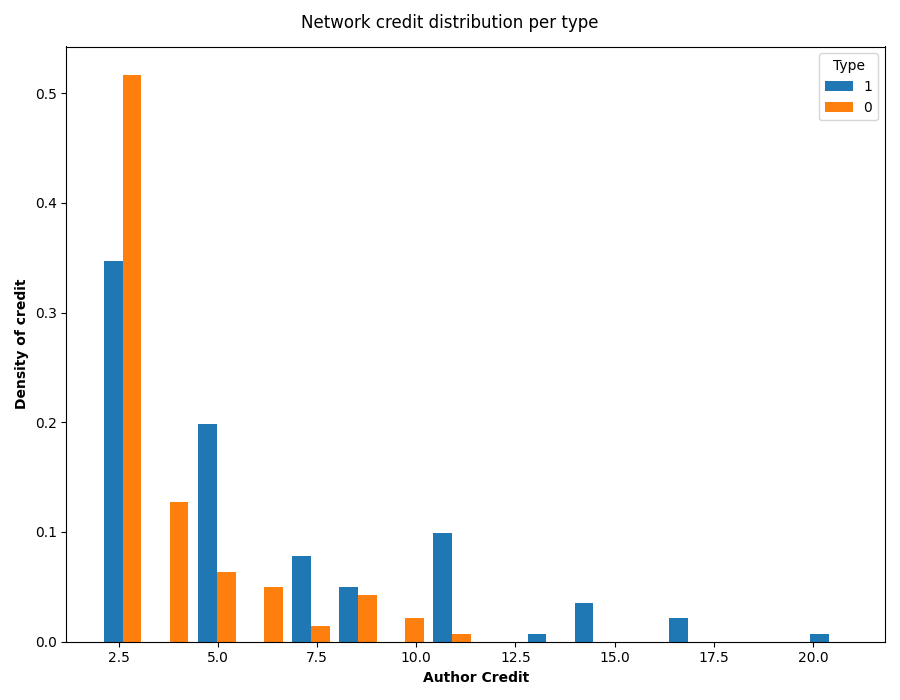
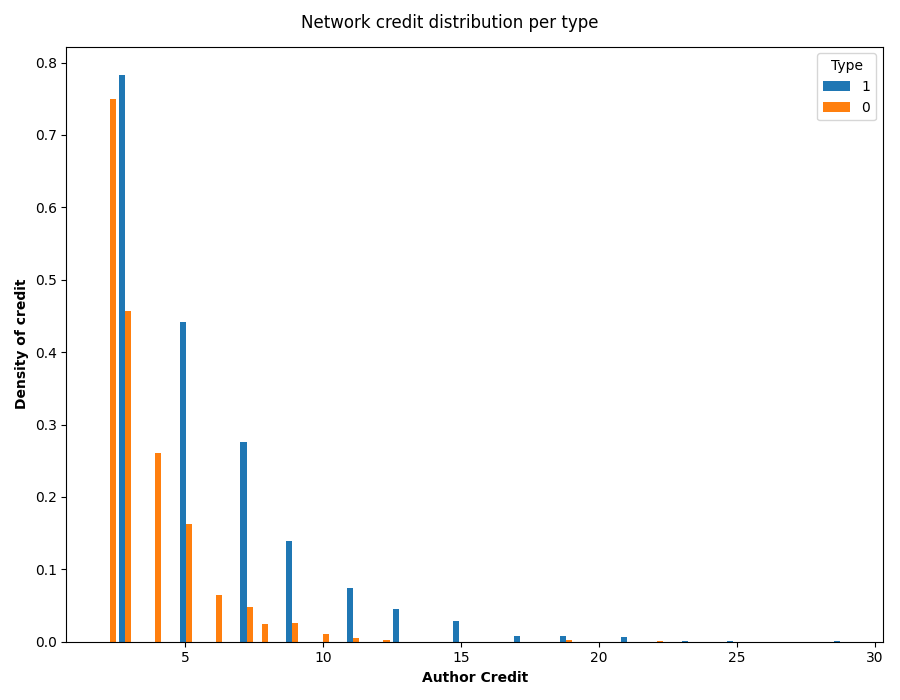
Changed the updating new communities function, still minor issue with Pd

diff --git a/docs/outputs/bibsonomyPage.html b/docs/outputs/bibsonomyPage.html
@@ -85,19 +85,19 @@
                         </tr>
                         <tr>
                             <td>Number of Papers</td>
-                            <td>100</td>
+                            <td>1000</td>
                         </tr>
                         <tr>
                             <td>Number of Authors</td>
-                            <td>79</td>
+                            <td>793</td>
                         </tr>
                         <tr>
                             <td>Number of Topics</td>
-                            <td>15</td>
+                            <td>104</td>
                         </tr>
                         <tr>
                             <td>Number of Types</td>
-                            <td>N/A</td>
+                            <td>2</td>
                         </tr>
                     </table>
                     <img src=bibsonomyDeg.png style="width:100%">

diff --git a/docs/outputs/scholarometerPage.html b/docs/outputs/scholarometerPage.html
@@ -85,7 +85,7 @@
                         </tr>
                         <tr>
                             <td>Number of Papers</td>
-                            <td>1039</td>
+                            <td>1275</td>
                         </tr>
                         <tr>
                             <td>Number of Authors</td>
@@ -93,11 +93,11 @@
                         </tr>
                         <tr>
                             <td>Number of Topics</td>
-                            <td>4</td>
+                            <td>6</td>
                         </tr>
                         <tr>
                             <td>Number of Types</td>
-                            <td>N/A</td>
+                            <td>2</td>
                         </tr>
                     </table>
                     <img src=scholarometerDeg.png style="width:100%">

diff --git a/docs/outputs/nanobankPage.html b/docs/outputs/nanobankPage.html
@@ -97,7 +97,7 @@
                         </tr>
                         <tr>
                             <td>Number of Types</td>
-                            <td>N/A</td>
+                            <td>2</td>
                         </tr>
                     </table>
                     <img src=nanobankDeg.png style="width:100%">

diff --git a/modules/Evolution.py b/modules/Evolution.py
@@ -197,15 +197,17 @@ class Evolution:
                 if newTopic not in self.topics:
                     self.topics[newTopic] = Topic(newTopic)
                 self.topics[newTopic].addPaper(paperID)
-            
+
                 # remove paper from old topics if strictly in new topic
                 if numIntersectAuths > numHalfAuths:
-                    # update papers data structure
-                    paperClass.clearTopics()
-                    paperClass.addTopic(newTopic)
                     # update topics data structure
                     for oldTopic in paperClass.getTopics():
                         self.topics[oldTopic].removePaper(paperID)
+                    # update papers data structure
+                    paperClass.clearTopics()
+                    self.topics[newTopic].addPaper(paperID)
+                    paperClass.addTopic(newTopic)
+                    
 
                 # update authors in network with papers
                 self.network.updatePaperInNetwork(paperID, (paperClass.getTopics(), paperClass.getAuthors()))
@@ -469,6 +471,14 @@ class Evolution:
                 # set limits
                 axis.set_ylim(10**-6, 1)
                 axis.set_xlim(1, 10**4)
+
+                # testing for pd
+                if label == 'Pd':
+                    print('Metrics for pd:')
+                    
+                    print(labelData)
+                    print(f'Num disciplines in graph: {len(self.topics.keys())}')
+                    print(self.topics)
 
         # figure styling
         fig.suptitle(f'''{networkName} Network with {numAuthors} total authors, {numPapers} total papers, and {numTopics} total topics.

diff --git a/modelReplication.py b/modelReplication.py
@@ -97,7 +97,7 @@ def saveResults(simName, simData):
     descr, numAuths, numPaps, numTops, degreeDistrib, creditDistr, disciplineObj, simObj = getData(simData)
     saveToFile(fileName=f'outputs/{simName}Data.pi', descr=descr, numAuthors=numAuths, numPapers=numPaps, numTopics=numTops)
     htmlPage.writeHTMLPage(simName=simName, descr=descr, creditDistr=creditDistr, degreeDistrib=degreeDistrib, displineTypeObj=disciplineObj, numAuths=numAuths, numPaps=numPaps, 
-                        numTops=numTops, Pn=simObj['Pn'], Pw=simObj['Pw'], Pd=simObj['Pd'], numRuns=simObj['runs'], directory='./docs/outputs/')
+                        numTops=numTops, numTypes=2, Pn=simObj['Pn'], Pw=simObj['Pw'], Pd=simObj['Pd'], numRuns=simObj['runs'], directory='./docs/outputs/')
 
 if __name__ == "__main__":
 
@@ -124,7 +124,7 @@ if __name__ == "__main__":
         'Pn': 0.80,
         'Pw': 0.71,
         'Pd': 0.50,
-        'newPapers': int(100),
+        'newPapers': int(1000),
         # 'newPapers': int(2.9*10**5),
         'simulationName': 'Bibsonomy',
         'runs': RUNS

diff --git a/main.py b/main.py
@@ -2,16 +2,16 @@ from modules.Evolution import Evolution
 
 env = Evolution(Pn=.8)
 
-env.evolve(newAuthors=1000)
+env.evolve(newAuthors=100)
 
 # env.printAuthor(0)
 # env.printPaper(1)
 
-env.network.getAuthorPapers(1)
+# env.network.getAuthorPapers(1)
 
 # env.network.plotPyvisGraph(filename='outputs/pyvis.html')
 
-env.saveEvolutionWithPickle('outputs/evolution.env')
+# env.saveEvolutionWithPickle('outputs/evolution.env')
 # env.evolve(timeSteps=20)
 
 
@@ -25,7 +25,7 @@ env.saveEvolutionWithPickle('outputs/evolution.env')
 # env.saveEvolutionWithPickle('outputs/evolution.env')
 env.plotDescriptorsDistr(saveToFile='outputs/creditAccumulation.png', xlogBase=10, ylogBase=10, 
                             numAuthors=env.getNumAuthors(), numPapers=env.getNumPapers(), numTopics=env.getNumTopics(), networkName='Credit accumulation')
-print(f'num authors: {env.getNumAuthors()}')
+# print(f'num authors: {env.getNumAuthors()}')
 # print(env)
 
 # test = {

diff --git a/modules/Topic.py b/modules/Topic.py
@@ -34,5 +34,6 @@ class Topic:
         self.papers.remove(paperID)
 
     def __repr__(self):
-        print('Not implemented')
+        # return f'{{"id": {self.id}\n, "authors": {self.disciplineAuthors}\n, "papers": {self.papers}\n}}'
+        return f'Topic {self.id} has {self.getNumPapers()} papers and {self.getNumDiscAuthors()} authors\n'
     
